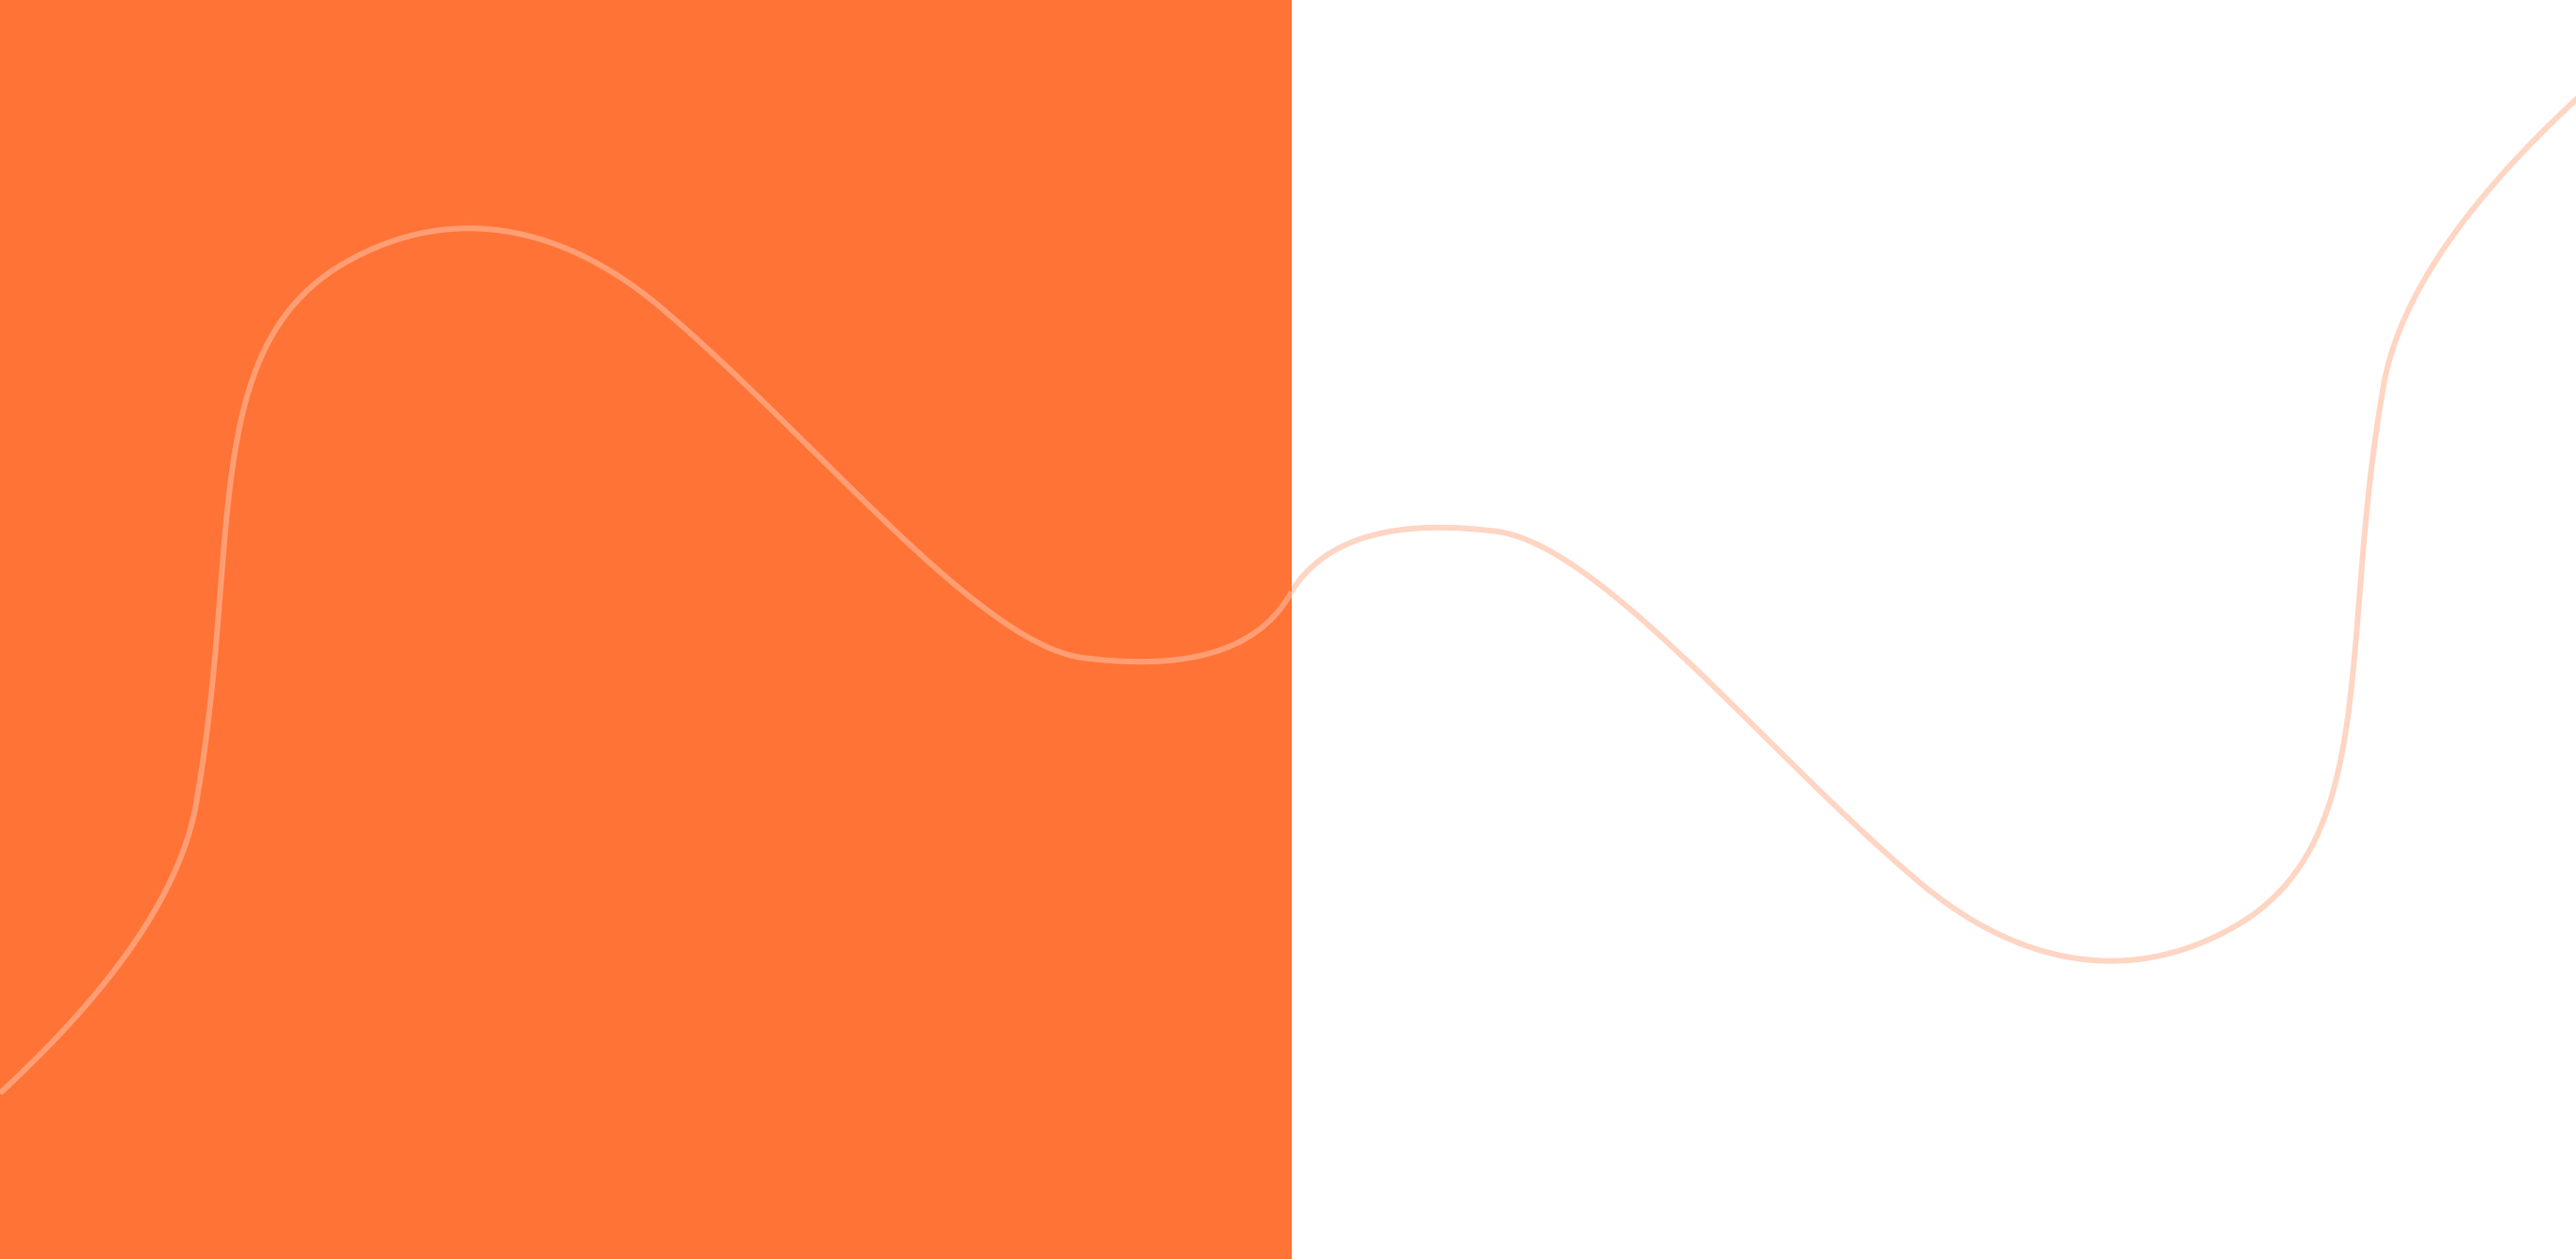
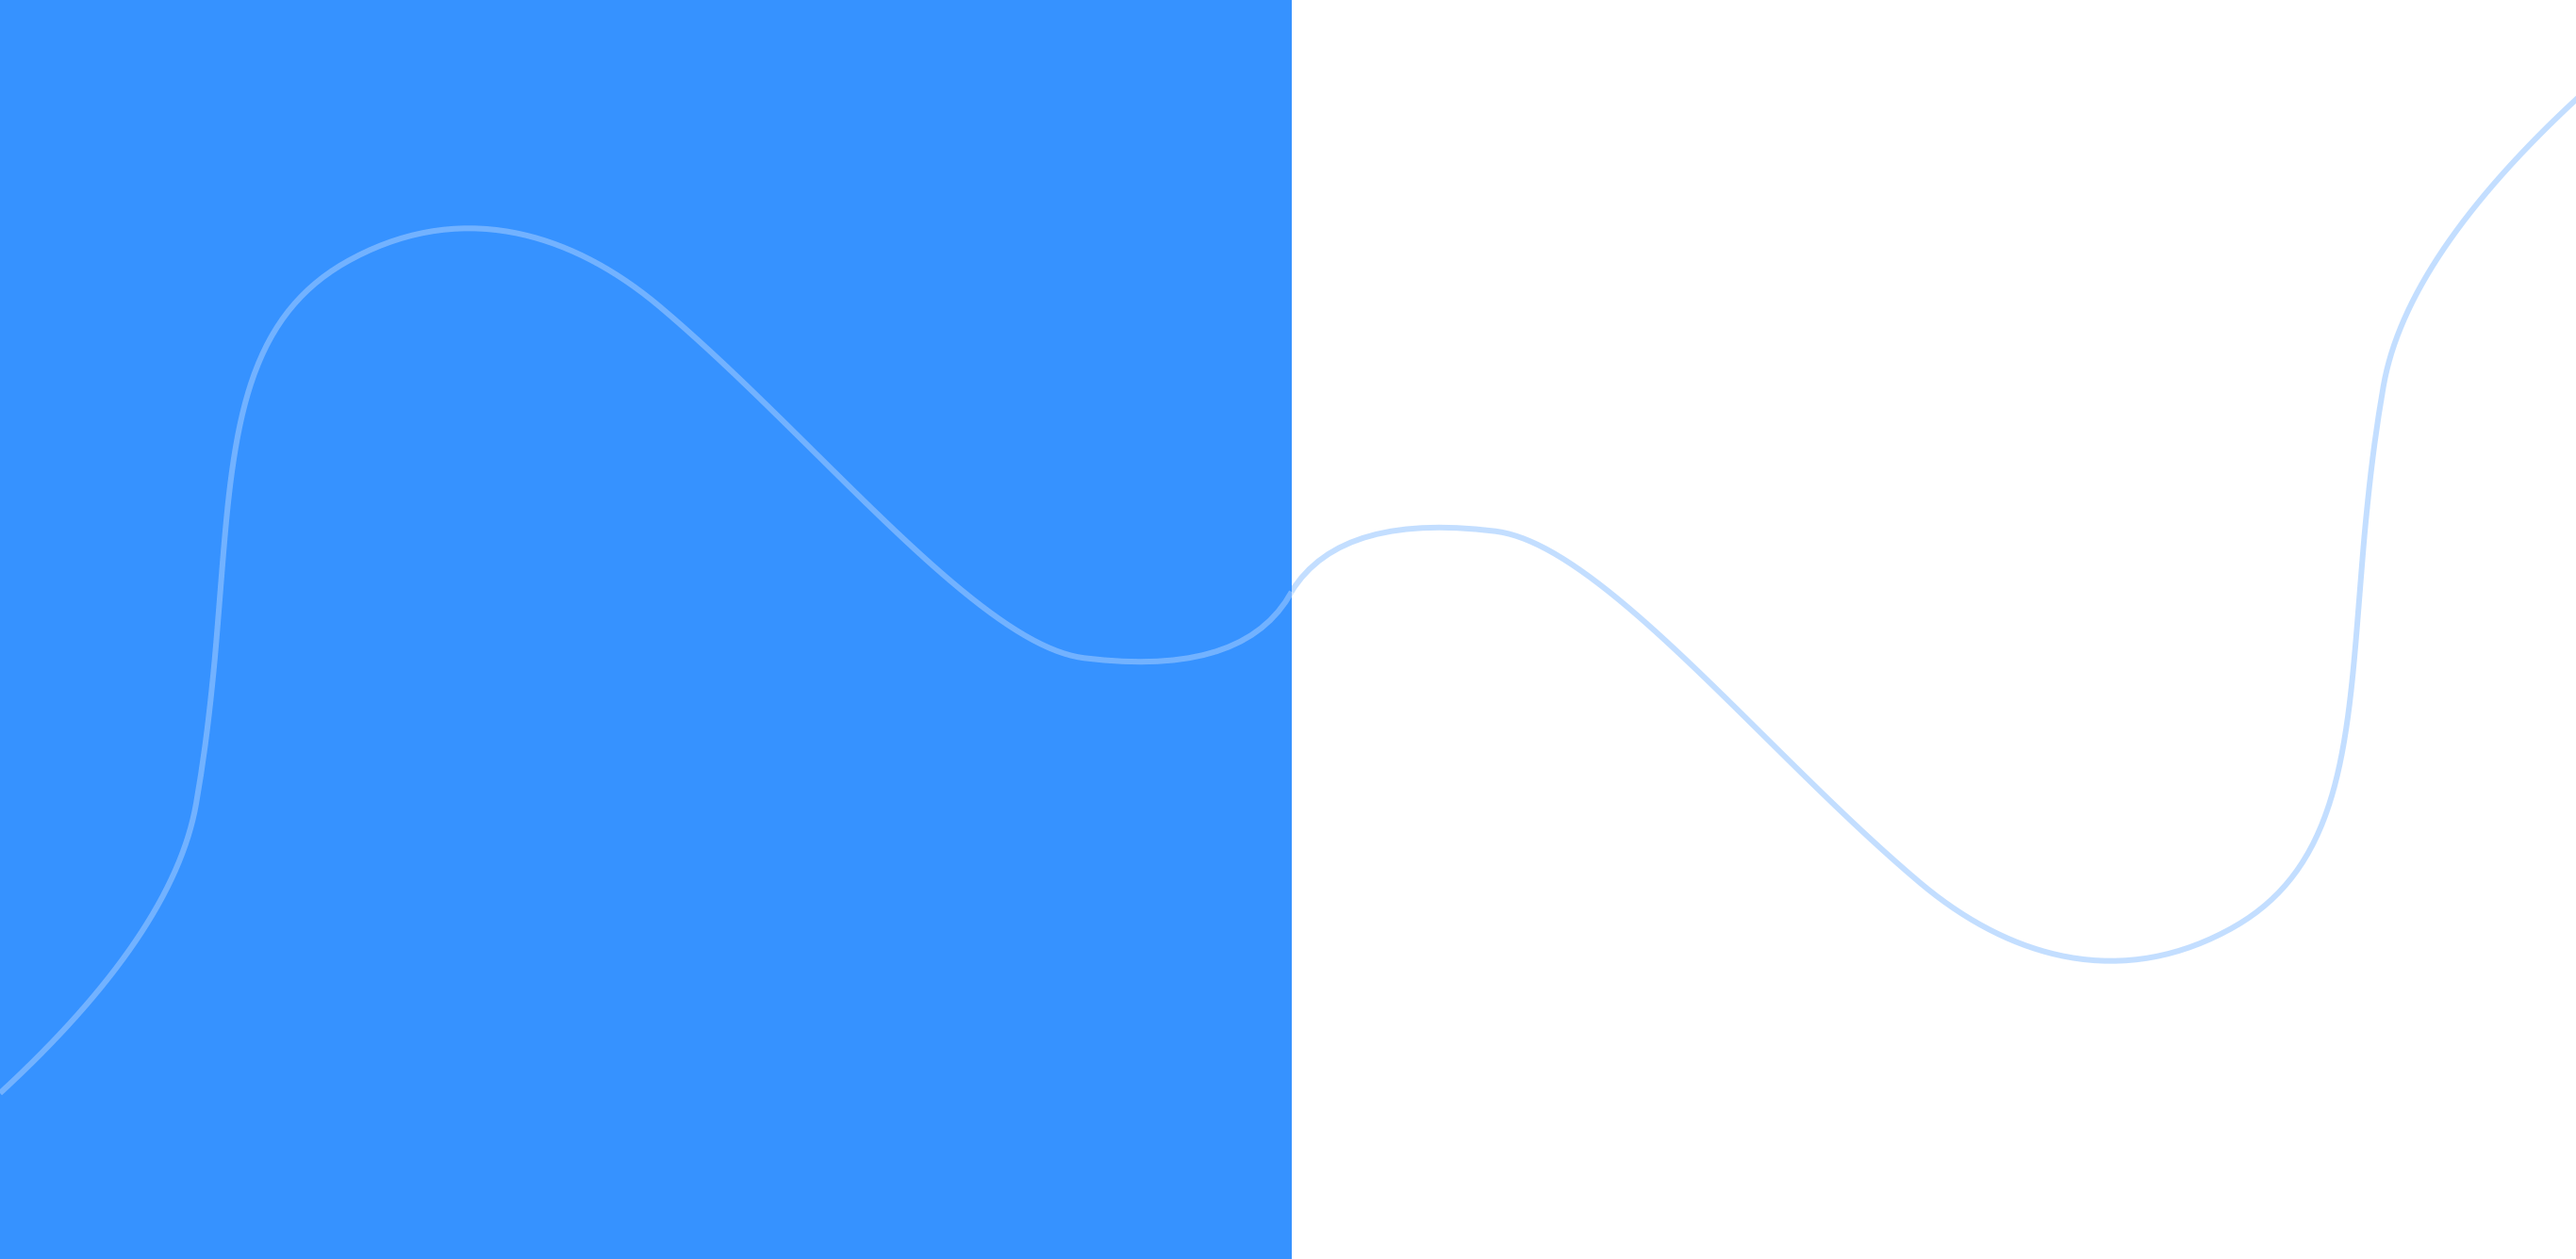
change colors

diff --git a/src/main/resources/static/css/model_choose.css b/src/main/resources/static/css/model_choose.css
@@ -28,13 +28,13 @@ li {
 }
 
 .dv_cases {
-    border: 1px solid #FF7437;
+    border: 1px solid #488edc;
     height: 90px;
     overflow-y: scroll;
 }
 
 .dv_models {
-    border: 1px solid #FF7437;
+    border: 1px solid #488edc;
     height: 190px;
     overflow-y: scroll;
     margin-bottom: 5px;
@@ -56,20 +56,20 @@ li {
     border-radius: 50%;
     width: 12px;
     height: 12px;
-    border: 1px solid #FF965C;
+    border: 1px solid #59A5F7;
     transition: 0.2s all linear;
     outline: none;
 }
 
 .btn_radio:checked {
-    border: 6px solid #FE6225;
+    border: 6px solid #488EDC;
 }
 
 .btn_check {
     -webkit-appearance: none;
     width: 12px;
     height: 12px;
-    border: 1px solid #FF965C;
+    border: 1px solid #59A5F7;
     transition: 0.1s all linear;
     outline: none;
 }
@@ -85,23 +85,23 @@ li {
     font-size: 12px;
     height: 20px;
     border: none;
-    outline: #FE6225 solid thin;
+    outline: #488EDC solid thin;
     width: 250px;
 }
 
 #patient_id:focus {
-    outline: #FF965C solid thin;
+    outline: #59A5F7 solid thin;
 }
 
 .btn_highlight {
     color: white;
-    background: linear-gradient(to right, #FE6225, #FF965C);
+    background: linear-gradient(to right, #488EDC, #59A5F7);
 }
 
 #btn_cancel {
     margin-left: 25px;
-    color: #FF7437;
-    border: 1px solid #FF7437;
+    color: #488edc;
+    border: 1px solid #488edc;
     background-color: white;
 }
 
@@ -115,7 +115,7 @@ div::-webkit-scrollbar {
 
 div::-webkit-scrollbar-thumb {
     border-radius: 3px;
-    background-color: #FF7437;
+    background-color: #488edc;
     background-clip: padding-box;
     min-height: 15px;
 }

diff --git a/src/main/resources/static/css/fx_upload_pane.css b/src/main/resources/static/css/fx_upload_pane.css
@@ -41,7 +41,7 @@
 
 .text_max {
     -fx-max-width: 275px;
-    -fx-border-color: #FE6225;
+    -fx-border-color: #488EDC;
     -fx-border-width: 0 0 1 0;
     -fx-background-color: transparent;
 }
@@ -49,7 +49,7 @@
 .text_remark {
     -fx-max-width: 275px;
     -fx-max-height: 60px;
-    -fx-border-color: #FE6225;
+    -fx-border-color: #488EDC;
     -fx-border-width: 1 1 1 1;
     -fx-border-style: none;
     -fx-background-insets: 0;
@@ -102,9 +102,9 @@
 }
 
 .btn_small:hover {
-    -fx-border-color: #FE6225;
-    -fx-text-fill: #FE6225;
-    -fx-effect: dropshadow(gaussian, rgba(255, 106, 28, 0.3), 15, 0.0, 0, 8);
+    -fx-border-color: #488EDC;
+    -fx-text-fill: #488EDC;
+    -fx-effect: dropshadow(gaussian, rgba(89, 165, 247, 0.3), 15, 0.0, 0, 8);
 }
 
 
@@ -113,11 +113,11 @@
     -fx-min-height: 37px;
     -fx-text-fill: #FFFFFF;
     -fx-background-radius: 5px;
-    -fx-background-color: linear-gradient(to right, #FE6225, #FF965C);
+    -fx-background-color: linear-gradient(to right, #488EDC, #59A5F7);
 }
 
 .btn_confirm:hover {
-    -fx-effect: dropshadow(gaussian, rgba(255, 106, 28, 0.3), 24, 0.0, 0, 8);
+    -fx-effect: dropshadow(gaussian, rgba(89, 165, 247, 0.3), 24, 0.0, 0, 8);
 }
 
 .btn_cancel {
@@ -131,8 +131,8 @@
 }
 
 .btn_cancel:hover {
-    -fx-border-color: #FE6225;
-    -fx-text-fill: #FE6225;
-    -fx-effect: dropshadow(gaussian, rgba(255, 106, 28, 0.3), 24, 0.0, 0, 8);
+    -fx-border-color: #488EDC;
+    -fx-text-fill: #488EDC;
+    -fx-effect: dropshadow(gaussian, rgba(89, 165, 247, 0.3), 24, 0.0, 0, 8);
 }
 

diff --git a/src/main/resources/static/css/common2.css b/src/main/resources/static/css/common2.css
@@ -134,10 +134,10 @@ html body .main .right .inner .core .button-zone {
 }
 
 html body .main .right .inner .core .button-zone .button {
-    background: -webkit-gradient(linear, left top, right top, from(#FF965C), to(#FE6225));
-    background: linear-gradient(-270deg, #FF965C 0%, #FE6225 100%);
-    -webkit-box-shadow: 0 2px 10px 0 #FBB498;
-    box-shadow: 0 2px 10px 0 #FBB498;
+    background: -webkit-gradient(linear, left top, right top, from(#59A5F7), to(#488EDC));
+    background: linear-gradient(-270deg, #59A5F7 0%, #488EDC 100%);
+    -webkit-box-shadow: 0 2px 10px 0 #9AB9F9;
+    box-shadow: 0 2px 10px 0 #9AB9F9;
     padding: .140556rem .281113rem;
     cursor: pointer;
 }
@@ -193,10 +193,10 @@ html body .lay .inner .button-zone {
 
 html body .lay .inner .button-zone .button {
     padding: 10px 20px;
-    background-image: -webkit-gradient(linear, left top, right top, from(#FF965C), to(#FE6225));
-    background-image: linear-gradient(-270deg, #FF965C 0%, #FE6225 100%);
-    -webkit-box-shadow: 0 2px 10px 0 #FBB498;
-    box-shadow: 0 2px 10px 0 #FBB498;
+    background-image: -webkit-gradient(linear, left top, right top, from(#59A5F7), to(#488EDC));
+    background-image: linear-gradient(-270deg, #59A5F7 0%, #488EDC 100%);
+    -webkit-box-shadow: 0 2px 10px 0 #9AB9F9;
+    box-shadow: 0 2px 10px 0 #9AB9F9;
     border-radius: 5px;
     color: #fff;
     font-size: 12px;

diff --git a/src/main/resources/static/css/fx_warnning_onclose.css b/src/main/resources/static/css/fx_warnning_onclose.css
@@ -26,11 +26,11 @@
     -fx-min-height: 37px;
     -fx-text-fill: #FFFFFF;
     -fx-background-radius: 5px;
-    -fx-background-color: linear-gradient(to right, #FE6225, #FF965C);
+    -fx-background-color: linear-gradient(to right, #488EDC, #59A5F7);
 }
 
 .btn_confirm:hover {
-    -fx-effect: dropshadow(gaussian, rgba(255, 106, 28, 0.3), 24, 0.0, 0, 8);
+    -fx-effect: dropshadow(gaussian, rgba(89, 165, 247, 0.3), 24, 0.0, 0, 8);
 }
 
 .btn_cancel {
@@ -44,7 +44,7 @@
 }
 
 .btn_cancel:hover {
-    -fx-border-color: #FE6225;
-    -fx-text-fill: #FE6225;
-    -fx-effect: dropshadow(gaussian, rgba(255, 106, 28, 0.3), 24, 0.0, 0, 8);
+    -fx-border-color: #488EDC;
+    -fx-text-fill: #488EDC;
+    -fx-effect: dropshadow(gaussian, rgba(89, 165, 247, 0.3), 24, 0.0, 0, 8);
 }

diff --git a/src/main/resources/static/css/fx_preloader.css b/src/main/resources/static/css/fx_preloader.css
@@ -2,7 +2,7 @@
     -fx-border-width: 1px;
     -fx-border-radius: 5px;
     -fx-border-color: rgb(208, 212, 227);
-    -fx-background-color: #FF7437;
+    -fx-background-color: #488EDC;
     -fx-background-radius: 5px;
     -fx-min-width: 680px;
     -fx-min-height: 340px;
@@ -45,7 +45,7 @@
     -fx-max-width: 400px;
     -fx-min-height: 16px;
     -fx-max-height: 16px;
-    -fx-background-color: #F34400;
+    -fx-background-color: #2B55B0;
     -fx-background-radius: 15px;
     -fx-background-insets: 1px, 1px, 1px, 1px;
     -fx-padding: 0px;

diff --git a/src/main/resources/static/css/landing.css b/src/main/resources/static/css/landing.css
@@ -18,7 +18,7 @@ html body .main .right .inner .core .login-zone .input-box .label {
 }
 
 html body .main .right .inner .core .login-zone .input-box.user .label {
-    color: #FE6225;
+    color: #488EDC;
 }
 
 html body .main .right .inner .core .login-zone .input-box input {

diff --git a/src/main/resources/static/css/fx_upload_progress.css b/src/main/resources/static/css/fx_upload_progress.css
@@ -11,7 +11,7 @@
     -fx-max-width: 400px;
     -fx-min-height: 16px;
     -fx-max-height: 16px;
-    -fx-background-color: #FE6225;
+    -fx-background-color: #488EDC;
     -fx-background-radius: 15px;
     -fx-background-insets: 1px, 1px, 1px, 1px;
     -fx-padding: 0px;

diff --git a/src/main/resources/static/css/all.css b/src/main/resources/static/css/all.css
@@ -962,7 +962,7 @@ header .menu-item.active.mg, header .menu-item:hover.mg {
 }
 
 .layer .default-no-topic .r {
-    background: #FF7437;
+    background: #488edc;
     padding: .674671rem 0 0 1.012006rem;
 }
 

diff --git a/src/main/resources/static/css/fx_scroll_pane.css b/src/main/resources/static/css/fx_scroll_pane.css
@@ -23,7 +23,7 @@
 }
 
 .scroll-bar:vertical .thumb {
-    -fx-background-color: #FE6225;
+    -fx-background-color: #488EDC;
     -fx-background-radius: 5em;
 }
 
